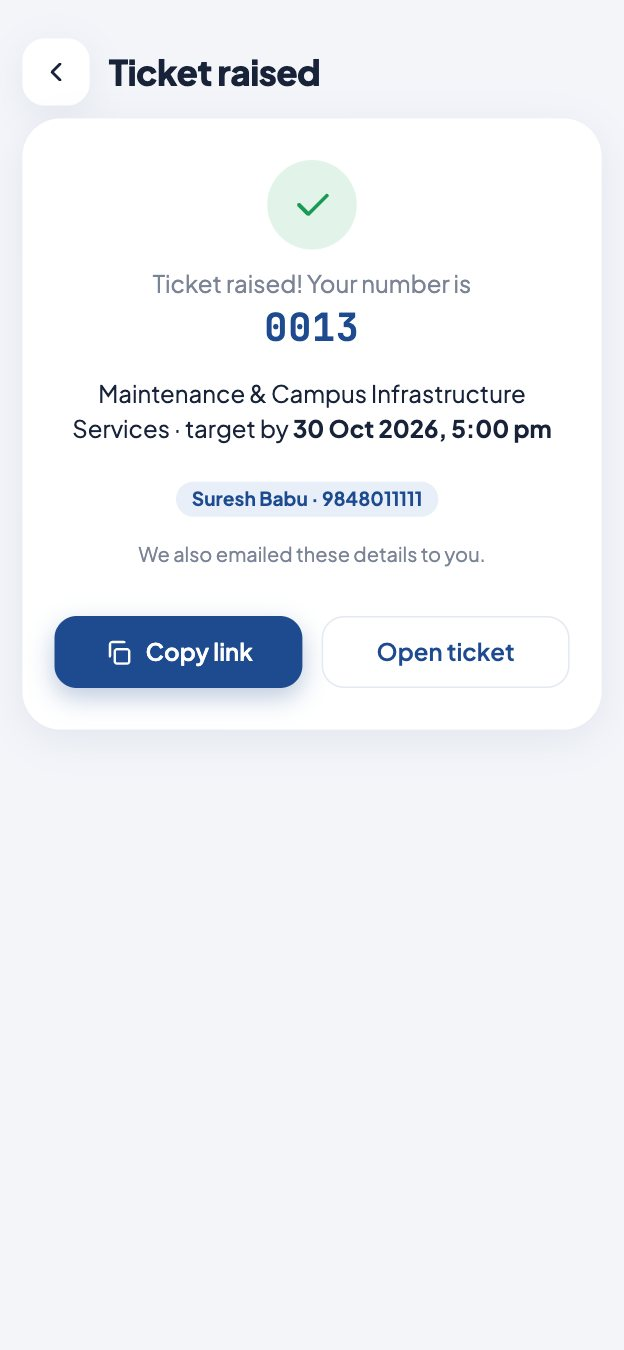
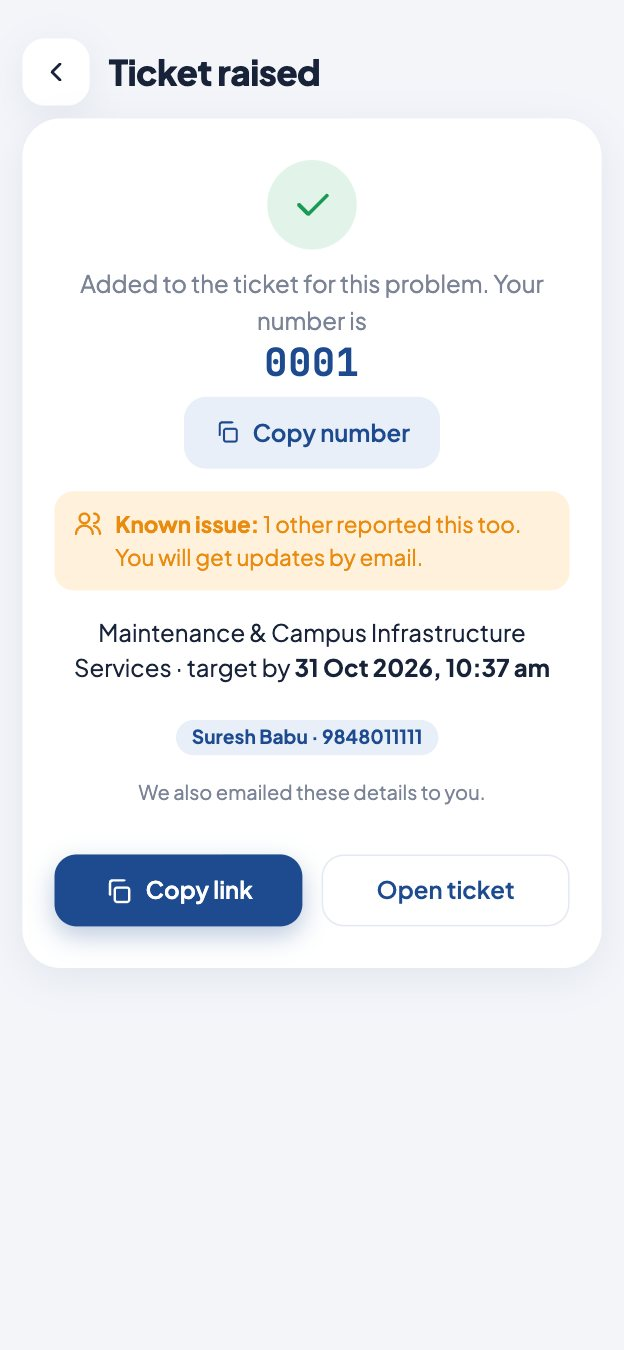
Requestor guide: new screenshots and the Known issue sentence (English and Telugu)

diff --git a/public/guide/requestor.html b/public/guide/requestor.html
@@ -203,13 +203,13 @@ dialog.zoom button{all:unset;cursor:pointer;background:var(--surface);color:var(
 <script>
 window.APP = {"home":"../"};
 window.SIZES = {"r1-portal":[624,1350],"r2-services":[624,1350],"r3-form-top":[624,1350],"r3b-visitor":[624,1350],"r4-form-location":[624,1350],"r5-student":[624,1350],"r5b-describe":[624,1350],"r5c-limit":[624,1350],"r6-raised":[624,1350],"r7-track":[624,1350],"r8-ticket":[624,1350],"r9-ticket-history":[624,1350],"r10-email":[800,1225]};
-window.REGIONS = {"r1-portal":{"top":[2.3,2.3,95.4,22],"raise":[2.3,32,95.4,12.7],"track":[2.3,44.7,95.4,10.1],"staff":[2.3,54.8,95.4,10.1],"install":[21.7,71.3,56.6,6.5]},"r2-services":{"first":[2.3,13.4,95.4,16.1],"names":[21,23.9,17.4,3.8]},"r3-form-top":{"name":[6.7,13.6,86.7,9.8],"who":[6.7,23.9,86.7,9.7],"email":[6.7,34.1,86.7,9.8],"phone":[6.7,44.4,86.7,9.8],"ids":[6.7,53,86.7,21.7]},"r3b-visitor":{"who":[6.7,0,86.7,7.9],"org":[6.7,28.9,86.7,9.8],"purpose":[6.7,39.2,86.7,9.8],"both":[6.7,27.3,86.7,21.7]},"r4-form-location":{"section":[6.7,1.3,86.7,37.5],"block":[11,6.5,77.9,9.8],"floor":[11,16.8,77.9,9.7],"room":[11,27,77.9,9.8]},"r5-student":{"section":[6.7,1.2,86.7,37.6],"branch":[11,6.5,77.9,9.8],"sid":[11,16.7,77.9,9.8],"dept":[11,27,77.9,9.8]},"r5b-describe":{"subject":[6.7,30.5,86.7,9.8],"desc":[6.7,40.8,86.7,16.1],"topic":[6.7,58.1,86.7,9.7],"photos":[6.7,71.4,86.7,11.3],"submit":[6.7,83.2,86.7,7.3]},"r5c-limit":{"limit":[6.7,61.3,86.7,21.5]},"r6-raised":{"no":[7.4,21.7,85.1,4.9],"handler":[7.4,27.2,85.1,11.6],"copy":[7.4,45.1,42.3,6.5]},"r7-track":{"head":[2.3,2.3,95.4,6.2],"no":[6.7,12.3,86.7,9.8],"find":[6.7,22.7,86.7,7.3]},"r8-ticket":{"pill":[78.3,3.4,19.4,3.9],"ring":[7.4,23.8,85.1,14.5],"plate":[7.4,37.8,44.7,3.8]},"r9-ticket-history":{"history":[2.3,10.5,95.4,44.1],"note":[2.3,54.9,95.4,39.5]},"r10-email":{"title":[9.4,12.4,81.3,3.7],"progress":[9.4,35.9,81.3,17.3],"button":[9.4,54.1,27.4,5.3]}};
+window.REGIONS = {"r1-portal":{"top":[2.3,2.3,95.4,22],"raise":[2.3,55.2,95.4,12.7],"track":[2.3,67.9,95.4,10.1],"staff":[2.3,78,95.4,10.1],"install":[21.7,94.4,56.6,5.6]},"r2-services":{"first":[2.3,13.4,95.4,16.1],"names":[21,23.9,17.4,3.8]},"r3-form-top":{"name":[6.7,13.6,86.7,9.8],"who":[6.7,23.9,86.7,9.7],"email":[6.7,34.1,86.7,9.8],"phone":[6.7,44.4,86.7,9.8],"ids":[6.7,53,86.7,21.7]},"r3b-visitor":{"who":[6.7,0,86.7,7.9],"org":[6.7,28.9,86.7,9.8],"purpose":[6.7,39.2,86.7,9.8],"both":[6.7,27.3,86.7,21.7]},"r4-form-location":{"section":[6.7,1.3,86.7,37.5],"block":[11,6.5,77.9,9.8],"floor":[11,16.8,77.9,9.7],"room":[11,27,77.9,9.8]},"r5-student":{"section":[6.7,1.2,86.7,37.6],"branch":[11,6.5,77.9,9.8],"sid":[11,16.7,77.9,9.8],"dept":[11,27,77.9,9.8]},"r5b-describe":{"subject":[6.7,30.5,86.7,9.8],"desc":[6.7,40.8,86.7,16.1],"topic":[6.7,58.1,86.7,9.7],"photos":[6.7,71.4,86.7,11.3],"submit":[6.7,83.2,86.7,7.3]},"r5c-limit":{"limit":[6.7,61.3,86.7,21.5]},"r6-raised":{"no":[7.4,24.4,85.1,4.9],"handler":[7.4,44.8,85.1,11.6],"copy":[7.4,62.7,42.3,6.5]},"r7-track":{"head":[2.3,2.3,95.4,6.2],"no":[6.7,12.3,86.7,9.8],"find":[6.7,22.7,86.7,7.3]},"r8-ticket":{"pill":[78.3,3.4,19.4,3.9],"ring":[7.4,23.8,85.1,14.5],"plate":[7.4,37.8,44.7,3.8]},"r9-ticket-history":{"history":[2.3,10.5,95.4,44.1],"note":[2.3,54.9,95.4,39.5]},"r10-email":{"title":[9.4,12.4,81.3,3.7],"progress":[9.4,35.9,81.3,17.3],"button":[9.4,54.1,27.4,5.3]}};
 window.AUDIO = {"en":{},"te":{}};
 // What the voice says: the same sentences as on screen. For the Telugu voice, the English words in the Telugu text are spelled
 // in Telugu letters, so it says them the way people here do (Tenglish) instead of skipping them or spelling them out.
 // Shared by the page (window.SAY) and make-voice.mjs, so a recording is used only while its words still match the page.
 (function (g) {
-  const TE = [['stmarys-desk.supercxo.ai', 'ఎస్ టి మేరీస్ డెస్క్ డాట్ సూపర్ సి ఎక్స్ ఓ డాట్ ఏ ఐ'], ['Install ONE Desk app', 'ఇన్స్టాల్ వన్ డెస్క్ యాప్'], ['Sign in to ONE Desk', 'సైన్ ఇన్ టు వన్ డెస్క్'],
+  const TE = [['Also close earlier open tickets', 'ఆల్సో క్లోజ్ ఎర్లియర్ ఓపెన్ టికెట్స్'], ['Known issue', 'నోన్ ఇష్యూ'], ['Requestors', 'రిక్వెస్టర్స్'], ['students', 'స్టూడెంట్స్'], ['stmarys-desk.supercxo.ai', 'ఎస్ టి మేరీస్ డెస్క్ డాట్ సూపర్ సి ఎక్స్ ఓ డాట్ ఏ ఐ'], ['Install ONE Desk app', 'ఇన్స్టాల్ వన్ డెస్క్ యాప్'], ['Sign in to ONE Desk', 'సైన్ ఇన్ టు వన్ డెస్క్'],
     ['Act on this ticket', 'యాక్ట్ ఆన్ దిస్ టికెట్'], ['Add to Home Screen', 'యాడ్ టు హోమ్ స్క్రీన్'], ['Ceiling fan not working', 'సీలింగ్ ఫ్యాన్ నాట్ వర్కింగ్'], ['Save and continue', 'సేవ్ అండ్ కంటిన్యూ'],
     ['View your ticket', 'వ్యూ యువర్ టికెట్'], ['Raise a ticket', 'రెయిజ్ ఎ టికెట్'], ['Find my ticket', 'ఫైండ్ మై టికెట్'], ['Ticket status', 'టికెట్ స్టేటస్'], ['What happened', 'వాట్ హ్యాపెన్డ్'],
     ['Digital Services', 'డిజిటల్ సర్వీసెస్'], ['Microsoft Edge', 'మైక్రోసాఫ్ట్ ఎడ్జ్'], ['Text-to-speech', 'టెక్స్ట్ టు స్పీచ్'], ['Raise ticket', 'రెయిజ్ టికెట్'], ['Track ticket', 'ట్రాక్ టికెట్'],
@@ -306,6 +306,7 @@ window.GUIDE = {
     { id: 'number', img: 'r6-raised', phone: true, title: { en: 'Keep your ticket number', te: 'మీ టికెట్ నంబర్ సేవ్ చేసుకోండి' }, lines: [
       { box: 'no', en: 'Your ticket number appears straight away. Please keep it safe.', te: 'మీ టికెట్ నంబర్ వెంటనే కనిపిస్తుంది. దాన్ని సేవ్ చేసుకోండి.' },
       { box: 'handler', en: 'It also shows who will handle it, and the target time.', te: 'మీ టికెట్ ఎవరు చూసుకుంటారో, ఎప్పటికి పూర్తవుతుందో కూడా ఇక్కడ కనిపిస్తుంది.' },
+      { en: 'If others already reported the same problem at the same place today, your report joins their ticket and you see <b>Known issue</b>. You still get every update by email.', te: 'ఈ రోజు అదే చోట అదే ప్రాబ్లమ్ వేరే వాళ్లు ఇప్పటికే రిపోర్ట్ చేసి ఉంటే, మీ రిపోర్ట్ వాళ్ల టికెట్లోనే కలుస్తుంది, <b>Known issue</b> అని చూపిస్తుంది. అప్డేట్స్ అన్నీ మీకు ఈమెయిల్లోనే వస్తాయి.' },
       { box: 'copy', en: 'Tap <b>Copy link</b> to save a direct link to your ticket.', te: 'టికెట్ లింక్ సేవ్ చేసుకోవాలంటే <b>Copy link</b> నొక్కండి.' },
       { box: null, en: 'The same details also come to your email.', te: 'ఇవే డీటెయిల్స్ మీ ఈమెయిల్కి కూడా వస్తాయి.' },
     ] },
